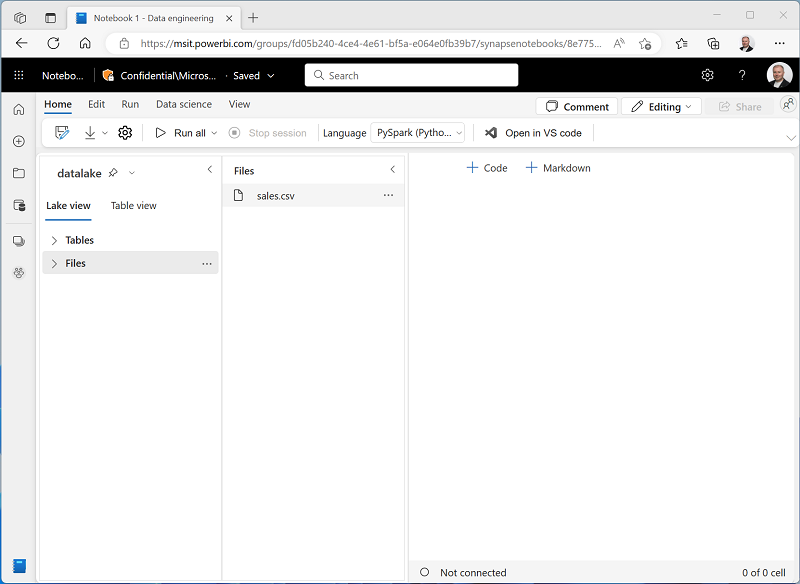
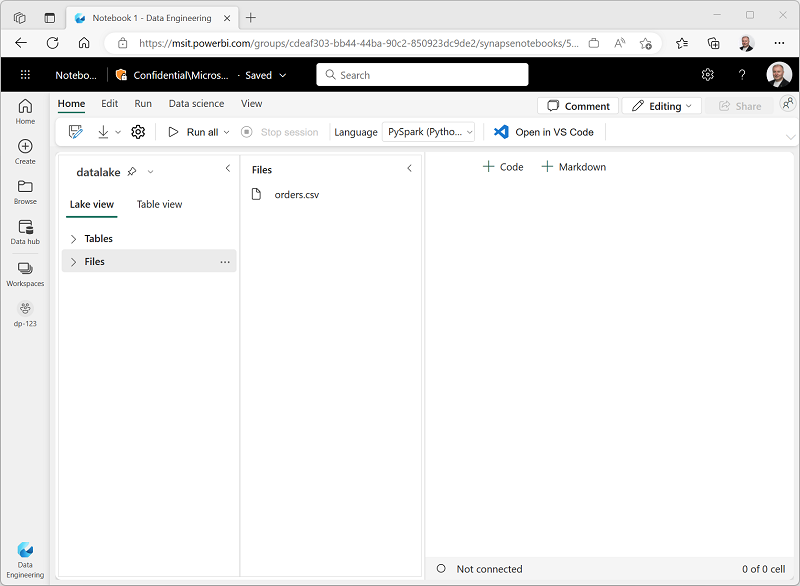
Added warehouse section

Changed region(s): [[0.0, 0.0, 1.0, 1.0], [0.5938, 0.2774, 0.75, 0.3082], [0.2812, 0.2774, 0.4062, 0.339]]

diff --git a/Instructions/Labs/00-lakehouse.md b/Instructions/Labs/00-lakehouse.md
@@ -4,13 +4,18 @@ lab:
     module: 'Get started with Lakehouses'
 ---
 
+---
+*The UI is changing frequently -we'll need to update (or remove) screenshots prior to release.*
+
+---
+
 # Create a lakehouse
 
 Large-scale data analytics solutions have traditionally been built around a *data warehouse*, in which data is stored in relational tables and queried using SQL. The growth in "big data" (characterized by high *volumes*, *variety*, and *velocity* of new data assets) together with the availability of low-cost storage and cloud-scale distributed compute technologies has led to an alternative approach to analytical data storage; the *data lake*. In a data lake, data is stored as files without imposing a fixed schema for storage. Increasingly, data engineers and analysts seek to benefit from the best features of both of these approaches by combining them in a *data lakehouse*; in which data is stored in files in a data lake and a relational schema is applied to them as a metadata layer so that they can be queried using traditional SQL semantics.
 
 In Microsoft Fabric, a lakehouse is an artifact in a workspace that provides highly scalable file storage in a *OneLake* storage service with a relational metastore based on Apache Spark *Delta Lake* technology. Delta Lake enables you to "overlay" file data with a relational schema of tables that support transactional semantics and other capabilities commonly found in a traditional relational data warehouse.
 
-This lab will take approximately **30** minutes to complete.
+This lab will take approximately **45** minutes to complete.
 
 ## Before you start
 
@@ -59,32 +64,32 @@ There are multiple ways to load data into the lakehouse.
 
 One of the simplest ways to ingest small amounts of data into the lakehouse is to upload files or folders from your local computer.
 
-1. Download the **sales.csv** file from [https://raw.githubusercontent.com/MicrosoftLearning/dp-data/main/sales.csv](https://raw.githubusercontent.com/MicrosoftLearning/dp-data/main/sales.csv), saving it as **sales.csv** on your local computer
-2. Return to the web browser tab containing your lakehouse, and in the **...** menu for the **Files** node in the **Lake view** pane, select **Upload** and **Upload file**, and then upload the **sales.csv** file from your local computer to the lakehouse.
-3. After the file has been uploaded, select **Files** verify that the **sales.csv** file has been uploaded, as shown here:
+1. Download the **sales.csv** file from [https://raw.githubusercontent.com/MicrosoftLearning/dp-data/main/orders.csv](https://raw.githubusercontent.com/MicrosoftLearning/dp-data/main/orders.csv), saving it as **orders.csv** on your local computer
+2. Return to the web browser tab containing your lakehouse, and in the **...** menu for the **Files** node in the **Lake view** pane, select **Upload** and **Upload file**, and then upload the **orders.csv** file from your local computer to the lakehouse.
+3. After the file has been uploaded, select **Files** verify that the **orders.csv** file has been uploaded, as shown here:
 
     ![Screenshot of uploaded sales.csv file in a lakehouse.](./Images/uploaded-file.png)
 
-4. Select the **sales.csv** file to see a preview of its contents.
+4. Select the **orders.csv** file to see a preview of its contents.
 
 ### Load file data into a table
 
 The sales data you uploaded is in a file, which data analysts and engineers can work with directly by using Apache Spark code. However, in many scenarios you may want to load the data from the file into a table so that you can query it using SQL.
 
-1. On the **Home** page while viewing the contents of the **sales.csv** file in your datalake, in the **Open notebook** menu, select **New notebook**.
+1. On the **Home** page while viewing the contents of the **orders.csv** file in your datalake, in the **Open notebook** menu, select **New notebook**.
 
     After a few seconds, a new notebook containing a single *cell* will open. Notebooks are made up of one or more cells that can contain *code* or *markdown* (formatted text).
 
 2. Select the existing cell in the notebook, which contains some simple code, and then use its **&#128465;** (*Delete*) icon at its top-right to remove it - you will not need this code.
-3. In the pane on the left, select the **Files** list to reveal a new pane showing the **sales.csv** file you uploaded previously:
+3. In the pane on the left, select the **Files** list to reveal a new pane showing the **orders.csv** file you uploaded previously:
 
     ![Screenshot of a notebook with a Files pane.](./Images/notebook-file.png)
 
-2. In the **...** menu for **sales.csv**, select **Load data** > **Spark**. A new code cell containing the following code should be added to the notebook:
+2. In the **...** menu for **orders.csv**, select **Load data** > **Spark**. A new code cell containing the following code should be added to the notebook:
 
     ```python
-    df = spark.read.format("csv").option("header","true").load("Files/sales.csv")
-    # df now is a Spark DataFrame containing CSV data from "Files/sales.csv".
+    df = spark.read.format("csv").option("header","true").load("Files/orders.csv")
+    # df now is a Spark DataFrame containing CSV data from "Files/orders.csv".
     display(df)
     ```
 
@@ -96,14 +101,16 @@ The sales data you uploaded is in a file, which data analysts and engineers can 
 
 4. When the cell command has completed, review the output below the cell, which should look similar to this:
 
-    | Index | SalesOrderNumber | SalesOrderLineNumber | OrderDate | CustomerName | Email | Item | Quantity | UnitPrice | Tax |
-    | -- | -- | -- | -- | -- | -- | -- | -- | -- | -- |
-    | 1 | SO43701 | 11 | 2019-07-01 | Christy Zhu | christy12@adventure-works.com | Mountain-100 Silver, 44 | 16 | 3399.99 | 271.9992 |
-    | 2 | SO43704 | 1 | 2019-07-01 | Julio Ruiz | julio1@adventure-works.com | Mountain-100 Black, 48 | 1 | 3374.99 | 269.9992 |
-    | 3 | SO43705 | 1 | 2019-07-01 | Curtis Lu | curtis9@adventure-works.com | Mountain-100 Silver, 38 | 1 | 3399.99 | 271.9992 |
-    | ... | ... | ... | ... | ... | ... | ... | ... | ... | ... |
+    |SalesOrderID|OrderDate|CustomerID|LineItem|ProductID|OrderQty|LineItemTotal|
+    |---|---|---|---|---|---|---|
+    |71774|2022-06-01|29847|1|836|1|356.9|
+    |71774|2022-06-01|29847|2|822|1|356.9|
+    |71776|2022-06-01|30072|1|907|1|63.9|
+    |71780|2022-06-01|30113|1|905|4|873.82|
+    |71780|2022-06-01|30113|2|983|2|923.39|
+    |...|...|...|...|...|...|...|
 
-5. Under the output, use the **+ Code** button to add a new code cell to the notebook. Then add the following code to the new cell:
+5. Under the output, use the **+ Code** button to add a new code cell to the notebook if an empty one does not already exist. Then add the following code to the new cell:
 
     ```Python
     # Create a new table
@@ -122,7 +129,7 @@ The sales data you uploaded is in a file, which data analysts and engineers can 
 
 When you need to regularly copy data from an external source into the lakehouse, you can create a pipeline that contains a **Copy Data** activity. Pipelines can be run on-demand or scheduled to run at specific intervals.
 
-1. On the **Home** page, in the **Get data** menu, select **New data pipeline**.
+1. On the **Home** page, in the **Get data** menu, select **New data pipeline**. When prompted, name the pipeline **Import Data**.
 
     The pipeline editor opens in a new browser tab (if you are prompted to allow pop-ups, do so).
 
@@ -135,7 +142,9 @@ When you need to regularly copy data from an external source into the lakehouse,
     - **URL**: `https://raw.githubusercontent.com/MicrosoftLearning/dp-data/main/products.csv`
     - **Connection**: Create new connection
     - **Connection name**: web_product_data
-    - **Authentication kind**: Anonymous
+    - **Authentication kind**: Basic
+    - **Username**: *Leave blank*
+    - **Password**: *Leave blank*
 
 5. Select **Next**. Then ensure the following settings are selected:
     - **Relative URL**: *Leave blank*
@@ -161,7 +170,7 @@ When you need to regularly copy data from an external source into the lakehouse,
 
     ![Screenshot of a pipeline with a Copy Data activity.](./Images/copy-data-pipeline.png)
 
-11. Use the **&#9655; Run** button to run the pipeline, saving the pipeline as **Copy Product Data** when prompted.
+11. Use the **&#9655; Run** button to run the pipeline, saving the pipeline when prompted.
 
     When the pipeline starts to run, you can monitor its status in the **Output** pane under the pipeline designer. Wait until it has succeeeded.
 
@@ -174,15 +183,69 @@ When you need to regularly copy data from an external source into the lakehouse,
 
     ![Screenshot of the product table.](./Images/product-table.png)
 
-16. Select the **Lave view** tab and refresh the **Tables** section to see the folder for the **product** data files.
+16. Select the **Lake view** tab and refresh the **Tables** section to see the folder for the **product** data files.
 
     ![Screenshot of the files for the product table.](./Images/table-files.png)
 
-In this exercise, you have created a lakehouse and imported data into it. You've seen how a lakehouse consists of files stored in a OneLake data store, some of which are used to store the data for managed tables.
+## Explore the default warehouse
+
+When you create a lakehouse and define tables in it, a default warehouse is automatically created to provide a SQL endpoint through which the tables can be queried using SQL `SELECT` statements.
 
 ---
-*Possibly extend this to include working with a dataset so students see the point of defining tables in a lakehouse to support Power BI reporting. There seem to be some issues at the moment though - the default dataset doesn't seem to include the latest table and there's no obvious way to force it to refresh, and creating a new dataset results in a server error.*
-
-*If so, we might want to normalize the CSV data so that there's a product key relationship between products and salesorders*
+*Currently, the read-only SQL endpoint for the lakehouse is called the "default warehouse". However, this will change to "SQL Endpoint" to avoid confusion with the "Data Warehouse" artifact type, which will be a fully transactional relational data warehouse. At that point, we'll need to update this section.*
 
 ---
+
+1. In the bar on the left, select the icon for your workspace to view all of the artifacts it contains:
+
+    ![Screenshot of the workspace page.](./Images/workspace.png)
+
+2. Note that the workspace includes multiple assets with the name you assigned to the lakehouse. These include:
+    - The *lakehouse* itself
+    - A default *dataset* that can be used to build Power BI reports from the data in your lakehouse.
+    - A default *warehouse* that provides a SQL endpoint for the tables in your lakehouse.
+
+3. Select the default warehouse for your lakehouse. After a short time, it will open in a visual interface from which you can explore the tables in your lakehouse, as shown here:
+
+    ![Screenshot of the warehouse page.](./Images/warehouse.png)
+
+4. Use the **New SQL query** button to open a new query editor, and enter the following SQL query:
+
+    ```sql
+    SELECT p.ProductName, COUNT(s.SalesOrderID) AS OrderCount
+    FROM salesorders AS s
+    JOIN product AS p
+        ON s.ProductID = p.ProductID
+    GROUP BY  p.ProductName
+    ORDER BY p.ProductName
+    ```
+
+5. Use the **&#9655; Run** button to run the query and view the results, which should show the number of orders placed for each product.
+6. At the top right of the page, use the drop-down menu to switch from **Warehouse mode** to **Lake mode** and note that this reverts the view to the page for your lakehouse, where you can manage the files containing your data.
+
+## Explore the default dataset
+
+As you saw previously, creating and populating tables in a lakehouse automatically generated a default *dataset* that you can use as the basis for a Power BI data visualization.
+
+1. In the bar on the left, select the icon for your workspace to view all of the artifacts it contains.
+
+2. Select the default dataset for your lakehouse. This opens the dataset as shown here:
+
+    ![Screenshot of the dataset page.](./Images/dataset.png)
+
+3. In the **Create a report** drop-down list, select **Auto-create** to create a new report based on the dataset. Then wait for the report to be generated.
+
+---
+*Currently, the default dataset is only refreshed when the first table is created - the second table (in this case products) is not included, and there's no apparent way to force a refresh!*
+
+---
+
+## Clean up resources
+
+In this exercise, you have created a lakehouse and imported data into it. You've seen how a lakehouse consists of files stored in a OneLake data store, some of which are used to store the data for managed tables. The managed tables can be explored and manipulated using Spark, queried using SQL, and included in a dataset to support data visualizations.
+
+If you've finished exploring your lakehouse, you can delete the workspace you created for this exercise.
+
+1. In the bar on the left, select the icon for your workspace to view all of the artifacts it contains.
+2. In the **...** menu on the toolbar, select **Workspace settings**.
+3. In the **Other** section, select **Delete this workspace**.
